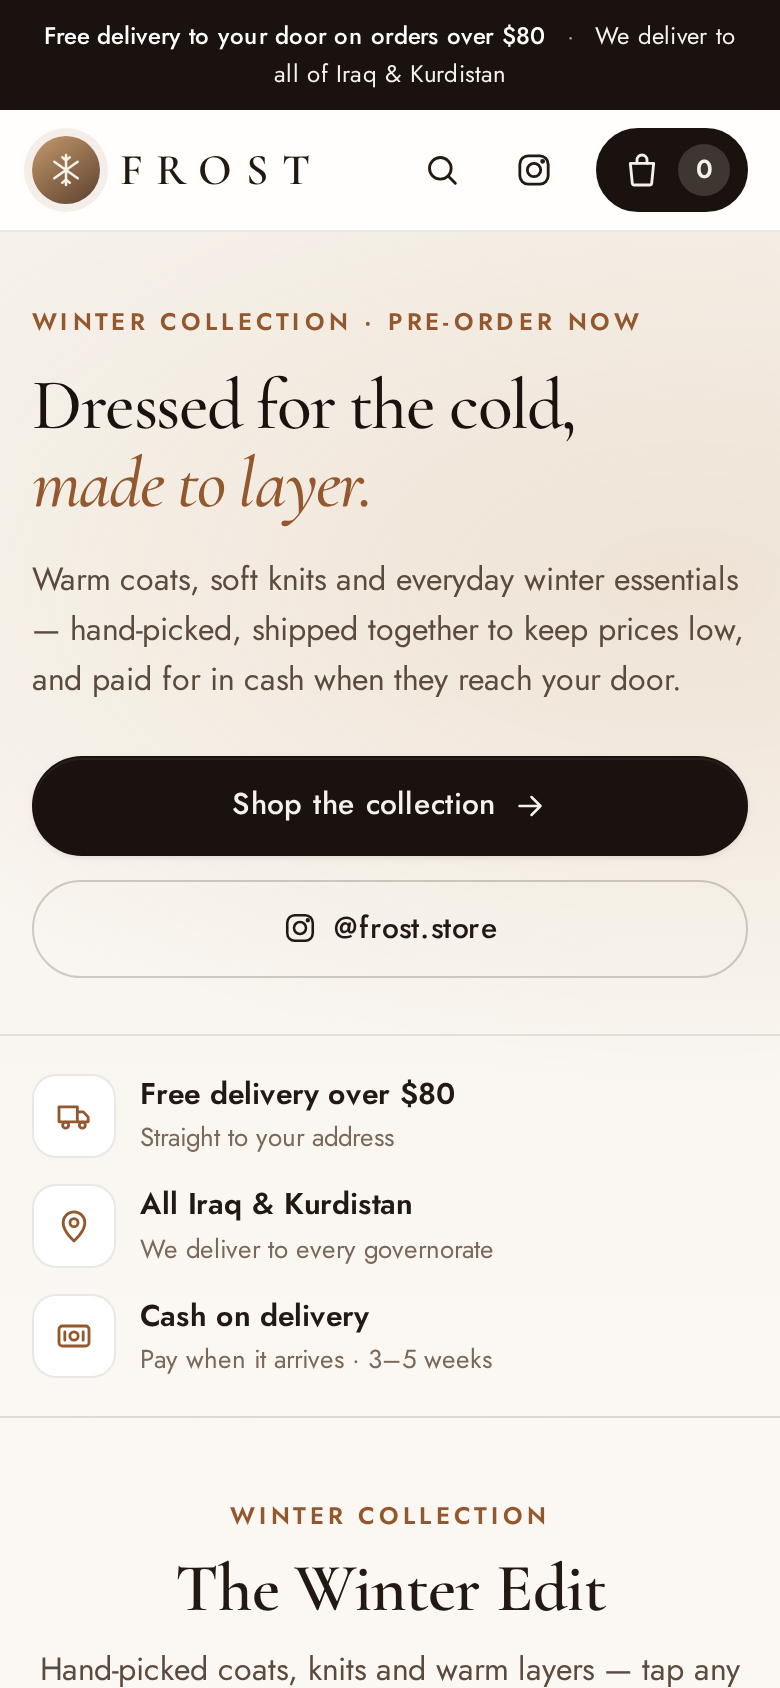
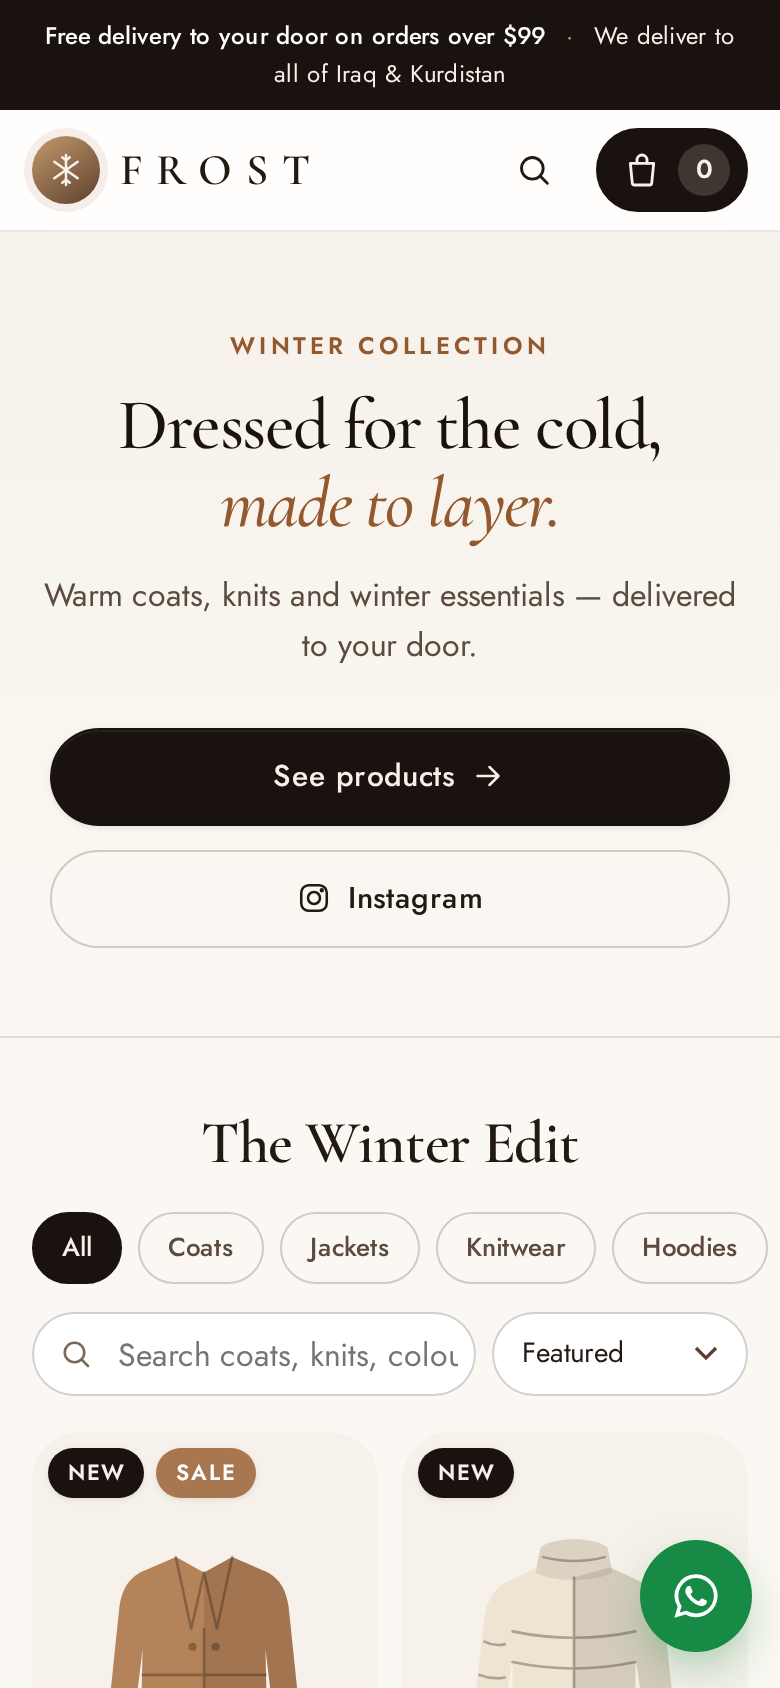
Write the project description in the README and refresh screenshots
- New About, features and tech-stack sections at the top
- Updated storefront screenshots (new home, receipt, product view)
- Fixed stale details: test count, deploy variables, project structure

Claude-Session: https://claude.ai/code/session_01L7qSc3iXG4EEAZUroefaCw

diff --git a/README.md b/README.md
@@ -1,13 +1,51 @@
 # Frost — Winter Clothing Shop
 
-An online shop for a small winter clothing business, with a **React** website
-and a **Node.js + Express** backend. Customers browse, choose sizes and colours,
-and place an order (half paid online, half on delivery). They then send their receipt screenshot on
-**WhatsApp**. You manage everything from a private, secured dashboard.
+> A complete online shop for a small winter-clothing business in Iraq & Kurdistan:
+> a fast, mobile-first storefront, WhatsApp order confirmation, and a private,
+> two-factor-protected dashboard. React + Node.js/Express + SQLite.
 
-- 🚚 **Free delivery to your door on orders over $99**
-- 📍 **Delivery to all of Iraq & Kurdistan** (every governorate)
-- 💵 **Half now online, half on delivery** · pre-orders shipped together by sea or air
+**Going live at frostshop.store?** Follow [DEPLOY.md](DEPLOY.md).
+
+## About
+
+Frost is built for a business that **pre-orders winter clothing from Chinese
+suppliers, batches the orders, and ships them together** (by sea or air) to keep
+prices low. There is no online card checkout. Customers place an order, **pay half
+online to register it and the other half on delivery**, and confirm by sending a
+**screenshot of their receipt on WhatsApp**. The owner checks that receipt
+against the real order in a secure dashboard and confirms it.
+
+### Features
+
+**For customers**
+- Clean brown / black / cream storefront that works well on phones, with search, categories and sorting
+- Product view with a **1–5 photo slider** (auto-advances every 5 seconds), colours, sizes, size guide and delivery info
+- Bag and checkout with every governorate of Iraq & Kurdistan
+- **Free delivery over $99** and delivery to all of Iraq & Kurdistan
+- A compact **receipt that fits one phone screenshot**, with the owner's WhatsApp number, a one-tap "Send on WhatsApp" message and a working copy button
+- Floating WhatsApp button on every page
+- Receipts are saved on the device and can be reopened later
+
+**For the owner (private dashboard at `/#dabo`)**
+- Sign-in with a strong password **plus an authenticator-app code**
+- Every order with full customer, address, item, size, colour and price detail, plus a "check a WhatsApp receipt" lookup
+- Order statuses from New to Delivered, search, CSV export
+- Products: add, edit, duplicate, delete, upload 1–5 photos from a phone or computer, with JSON backup/import
+- Batch & supplier view: one combined shopping list of all confirmed orders
+- Activity log of sign-ins and changes
+
+**Security** (checked against the OWASP Top 10, with automated tests): scrypt passwords, TOTP 2FA, httpOnly session cookies, rate limiting, strict CSP, server-side price and stock checks, upload validation, and no secrets in the website or in git. Details [below](#security).
+
+### Tech stack
+
+| Part | Technology |
+|---|---|
+| Website | React 18, Vite, plain CSS, self-hosted fonts |
+| Server | Node.js 20+, Express 5 |
+| Database | SQLite (`better-sqlite3`, WAL mode), one file |
+| Security | Helmet, express-rate-limit, JWT sessions, scrypt, TOTP (RFC 6238) |
+| Tests | Node's built-in test runner (`npm test`) |
+| Hosting | One Node app (serves site + API). Railway or a small VPS with Caddy. |
 
 ---
 
@@ -28,12 +66,12 @@ and place an order (half paid online, half on delivery). They then send their re
 
 <table>
   <tr>
-    <td width="50%" valign="top"><img src="screenshots/home.png" alt="Home page" /><p align="center"><em>Home: delivery promises up front</em></p></td>
+    <td width="50%" valign="top"><img src="screenshots/home.png" alt="Home page" /><p align="center"><em>Home: delivery promises up front, two simple buttons</em></p></td>
     <td width="50%" valign="top"><img src="screenshots/shop.png" alt="Product grid" /><p align="center"><em>Clean, light product grid</em></p></td>
   </tr>
   <tr>
     <td width="50%" valign="top"><img src="screenshots/product.png" alt="Product details" /><p align="center"><em>Product view: colours, sizes, size guide, delivery info</em></p></td>
-    <td width="50%" valign="top"><img src="screenshots/receipt.png" alt="Receipt" /><p align="center"><em>Receipt to screenshot and send on WhatsApp</em></p></td>
+    <td width="50%" valign="top"><img src="screenshots/receipt.png" alt="Receipt" /><p align="center"><em>Receipt: fits one phone screenshot, half now / half on delivery</em></p></td>
   </tr>
   <tr>
     <td width="50%" valign="top"><img src="screenshots/admin-order-detail.png" alt="Order detail in the dashboard" /><p align="center"><em>Dashboard: full order detail to check a receipt</em></p></td>
@@ -144,18 +182,20 @@ Set these environment variables on your host. The first three come from your `se
 | `ADMIN_PASSWORD_HASH` | from `server/.env` |
 | `ADMIN_TOTP_SECRET` | from `server/.env` |
 | `JWT_SECRET` | from `server/.env` (required in production) |
-| `NODE_ENV` | `production` |
-| `DB_PATH` | a file on the persistent disk, e.g. `/var/data/frost.db` |
+| `DB_PATH` | a file on the persistent disk, e.g. `/data/frost.db` |
+| `UPLOADS_DIR` | a folder on the same disk for product photos, e.g. `/data/uploads` |
 | `TRUST_PROXY` | `1` (default in production). Set `0` only if nothing sits in front of the server. |
 
-Always use **HTTPS**. The database is a single file; copy `DB_PATH` regularly as a backup.
+`npm start` always runs in production mode, so `NODE_ENV` and `PORT` need no setting on most hosts.
+
+Always use **HTTPS**. The database is a single file; run `npm run backup` regularly. It copies the database and photos into `backups/`.
 
 ---
 
 ## Security
 
 Built and checked against the **OWASP Top 10** and OWASP cheat sheets. Run the
-28 automated security and API tests with `npm test`.
+30 automated security and API tests with `npm test`.
 
 | Area | What's in place |
 |---|---|
@@ -194,7 +234,14 @@ Built and checked against the **OWASP Top 10** and OWASP cheat sheets. Run the
 │   ├── api.js               # API client
 │   ├── Storefront.jsx       # shop, bag, checkout
 │   ├── components/          # Header, Hero, ProductModal, CartDrawer, ReceiptModal…
-│   └── admin/               # dashboard (#dabo)
+│   └── admin/               # dashboard (#dabo), incl. PhotoManager (photo upload)
 ├── tests/                   # npm test
-└── scripts/dev.mjs          # npm run dev
+├── scripts/
+│   ├── dev.mjs              # npm run dev (site + API together)
+│   ├── start.mjs            # npm start (production)
+│   └── backup.mjs           # npm run backup (database + photos)
+├── deploy/                  # Caddyfile + systemd service for a VPS
+├── railway.json             # Railway build/start settings
+├── DEPLOY.md                # step-by-step: hosting, domain, DNS
+└── public/products/         # product photos you ship with the site
 ```
